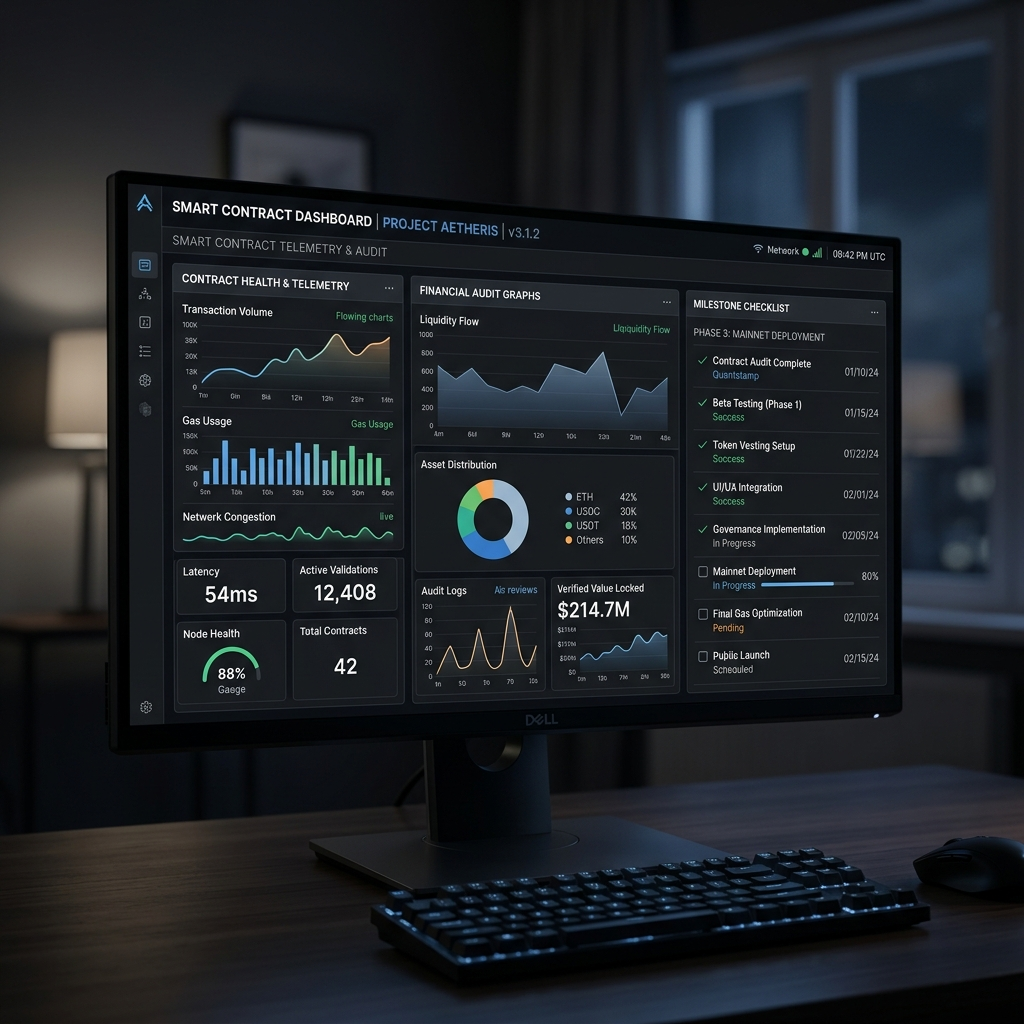
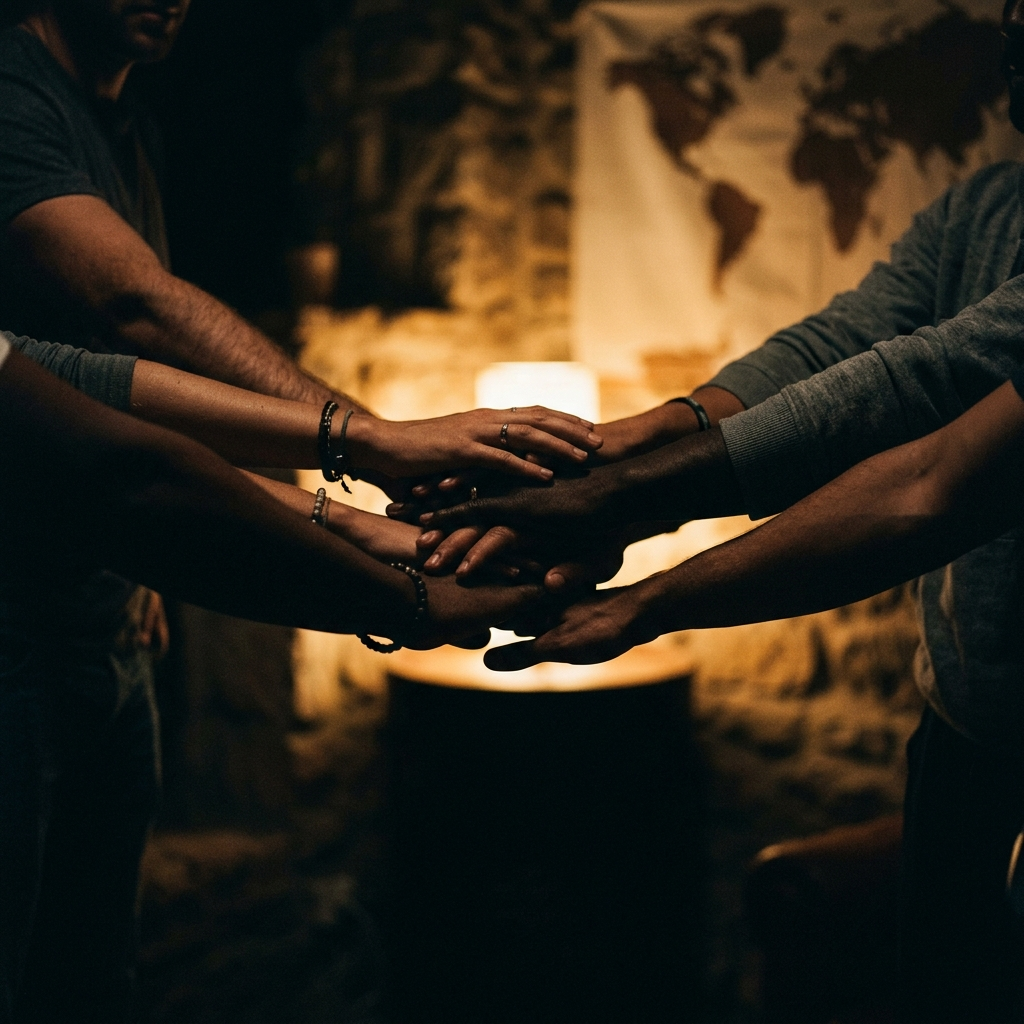
design: update page text labels to reflect charity escrow and transparent giving

diff --git a/frontend/src/app/page.tsx b/frontend/src/app/page.tsx
@@ -15,7 +15,7 @@ export default function LandingPage() {
         <div className="absolute inset-0 z-0">
           <Image
             src="/images/creda_hero.png"
-            alt="Creda Motorsport Performance Hero"
+            alt="Creda Charity Trust and Escrow"
             fill
             className="object-cover opacity-80"
             priority
@@ -47,7 +47,7 @@ export default function LandingPage() {
               href="/tx-center"
               className="flex h-12 items-center justify-center border border-hairline bg-transparent px-8 font-sans text-xs font-bold tracking-[1.5px] uppercase text-white hover:bg-surface-card transition-all w-full sm:w-auto"
             >
-              MONITOR TELEMETRY
+              AUDIT TRANSACTIONS
             </Link>
           </div>
         </div>
@@ -145,7 +145,7 @@ impl DistributionContract {
           <div className="relative h-64 w-full">
             <Image
               src="/images/creda_detail.png"
-              alt="Carbon fiber detail representation"
+              alt="Secure digital vault and contract details"
               fill
               className="object-cover"
             />
@@ -168,20 +168,20 @@ impl DistributionContract {
           <div className="relative h-64 w-full">
             <Image
               src="/images/creda_cockpit.png"
-              alt="Racing cockpit layout representation"
+              alt="Community unity and global impact"
               fill
               className="object-cover"
             />
           </div>
           <div className="p-6 space-y-4">
             <span className="font-mono text-[10px] font-bold tracking-[1.5px] text-accent-blue uppercase">
-              PILOT TELEMETRY
+              TRANSPARENCY AUDIT
             </span>
             <h3 className="font-sans text-xl font-bold text-white uppercase">
-              REAL-TIME OPERATIONAL METRICS
+              REAL-TIME LEDGER VERIFICATION
             </h3>
             <p className="font-sans text-sm text-body-text font-light leading-relaxed">
-              Control panels update dynamically with current ledger state. Admins manage milestone registers and donors verify the flow of assets instantly.
+              Ledger entries update instantly with the current block state. Donors, auditors, and administrators audit the flow of funds with absolute visibility.
             </p>
           </div>
         </div>